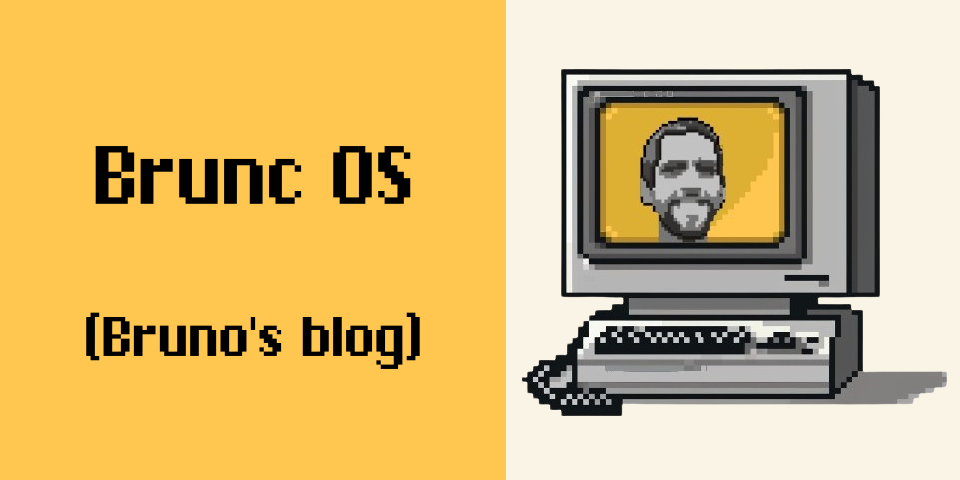
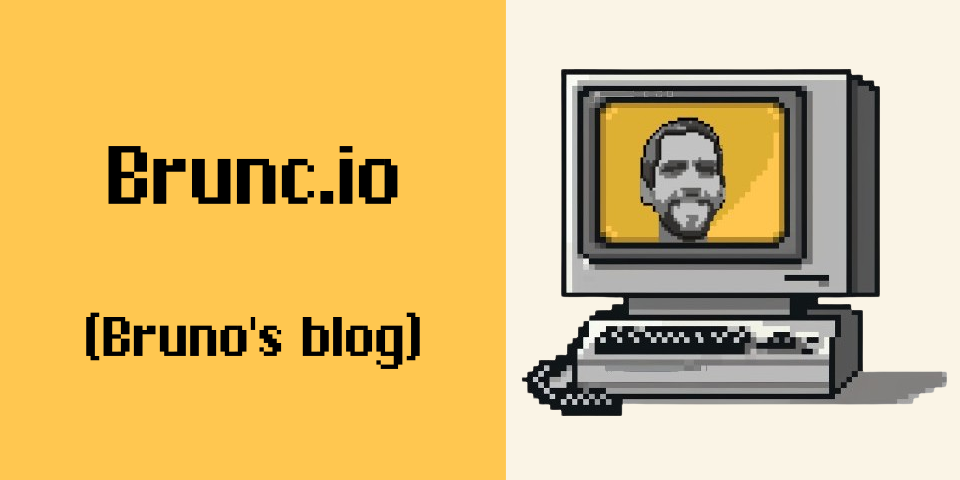
brunc.io

Changed region(s): [[0.0938, 0.2812, 0.4375, 0.4375]]

diff --git a/blog/src/components/MenuDropdown.svelte b/blog/src/components/MenuDropdown.svelte
@@ -18,7 +18,7 @@
                     activatePanel("aboutComputer");
                 }}
                 class="flex items-center gap-x-0.5 py-2 px-3 text-sm text-black hover:text-mywhite hover:bg-black focus:outline-none focus:bg-black focus:text-mywhite"
-                >About BruncOS</MenuItem
+                >About BruncIO</MenuItem
             >
             <hr class="h-px my-1 bg-black border-0" />
 

diff --git a/blog/src/consts.ts b/blog/src/consts.ts
@@ -1,5 +1,5 @@
 // Place any global data in this file.
 // You can import this data from anywhere in your site by using the `import` keyword.
 
-export const SITE_TITLE = 'BruncOS';
+export const SITE_TITLE = 'Brunc.io';
 export const SITE_DESCRIPTION = 'WebOS, powered by Brunc';
